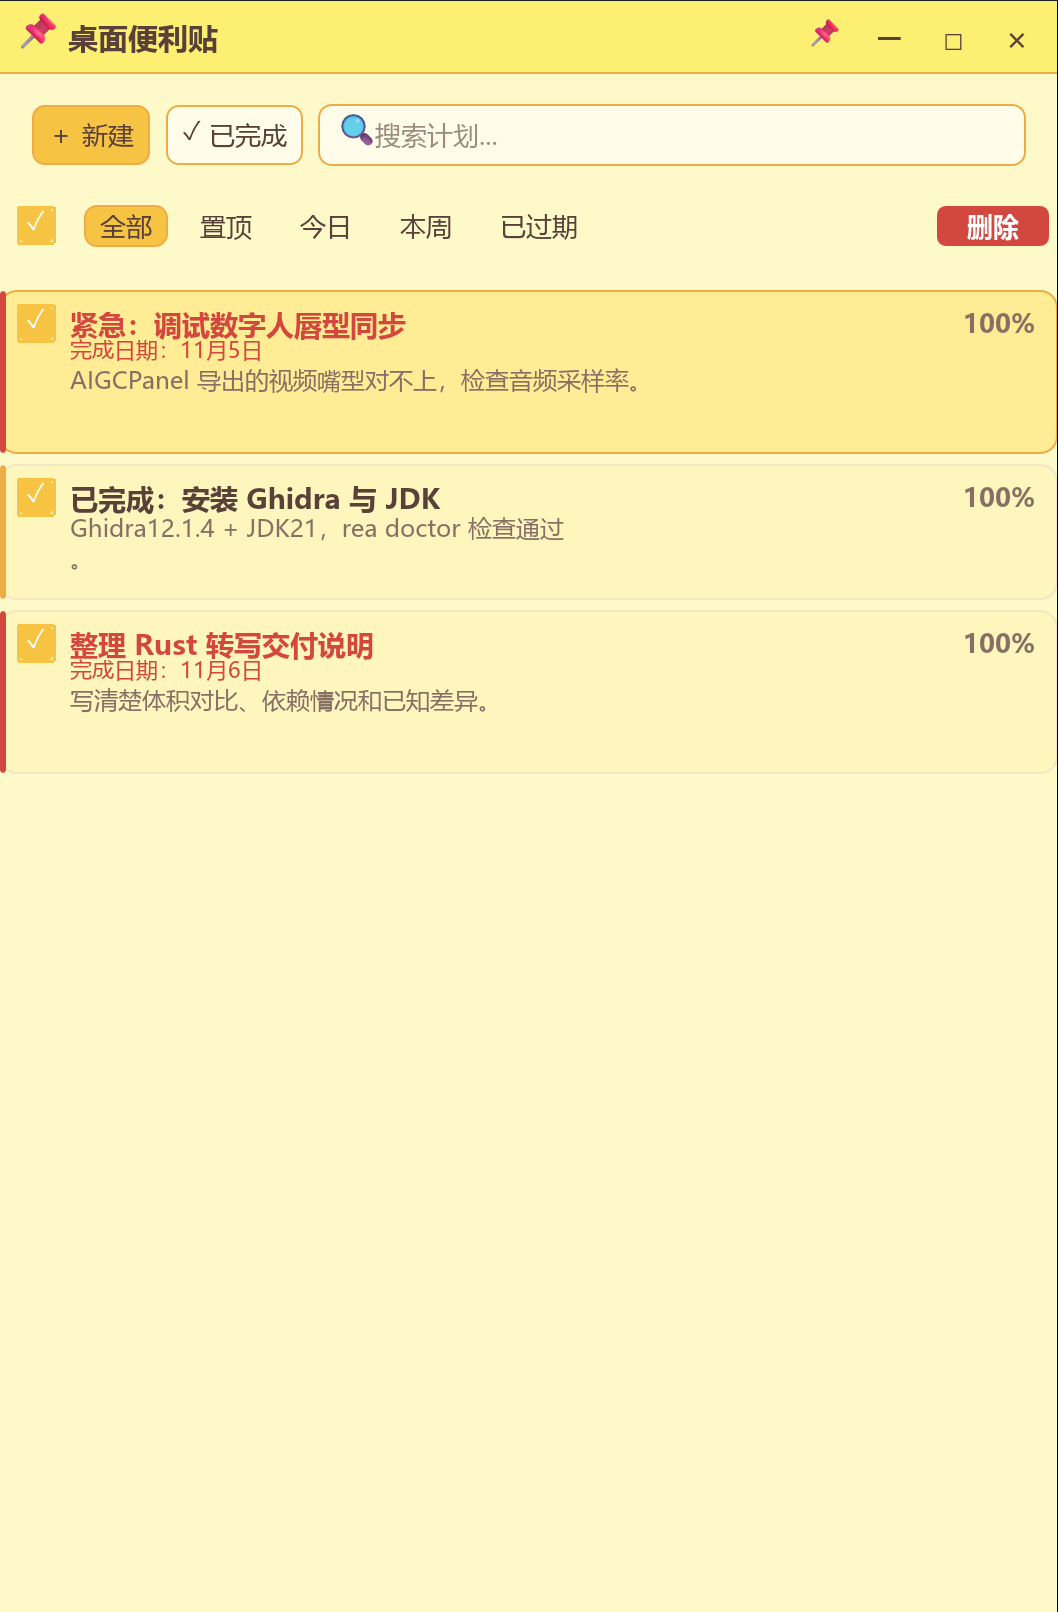
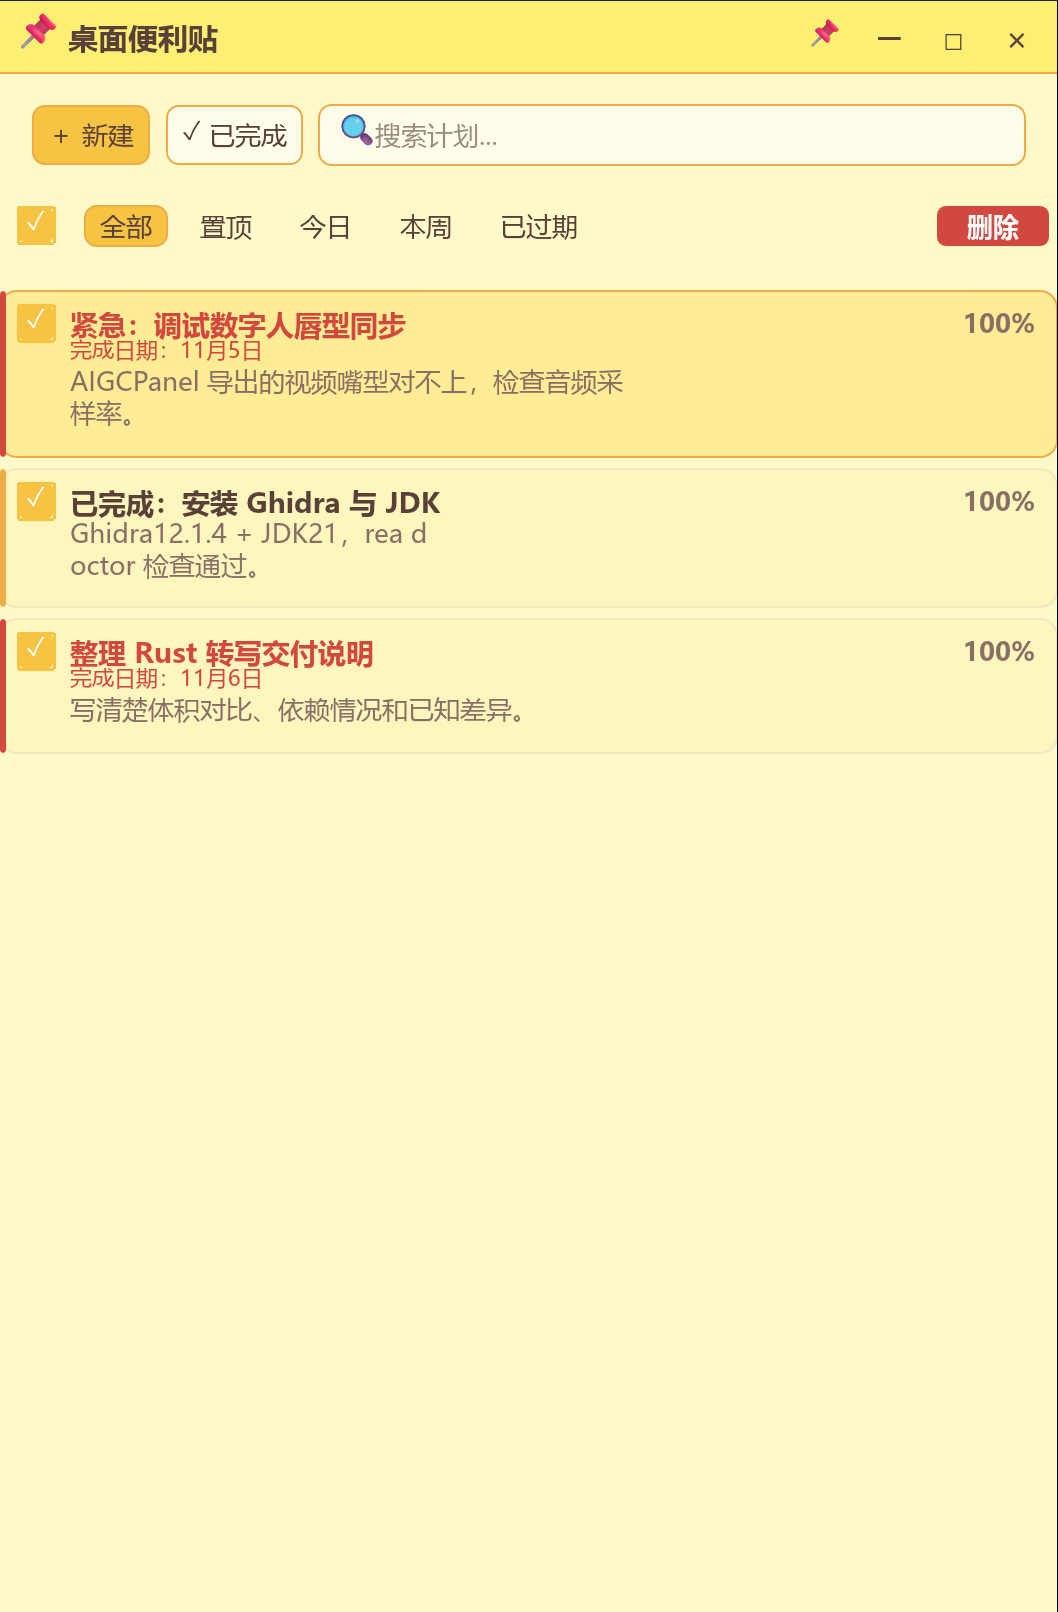
fix: 内容换行不压字、卡片贴合内容、缩放不抖、窗口小圆角
- 内容按显式换行分段再折行：带换行符的文本不再字压字；按实际折行结果定卡片高度，
  单行内容的卡片少空出一行（内容字号12→13、行距16，文字占地更大）
- 边框缩放改用屏幕坐标算位移：窗口相对坐标会正反馈，是左右拖动剧烈抖动的根因；
  尺寸上限由工作区70%放开到100%（原先开窗即顶格，上下拖不动）
- 窗口四角交给 DWM 画小圆角（DWMWCP_ROUNDSMALL；Win10 不支持则保持直角）

Changed region(s): [[0.0, 0.2171, 0.9981, 0.4653], [0.9045, 0.3722, 0.9669, 0.4342]]

diff --git a/src/main.rs b/src/main.rs
@@ -42,7 +42,9 @@ const BORDER: f32 = 6.0;
 #[derive(Clone, Copy)]
 struct ResizeDrag {
     edge: u8,
-    start: Pos2,
+    /// 按下时的**屏幕物理坐标**：不能用 egui 的窗口相对坐标，
+    /// 窗口一动基准就跟着变，算出来的位移会越来越大（左右拖动剧烈抖动）
+    start: (i32, i32),
     rect: (i32, i32, i32, i32),
 }
 const DATA_DIR: &str = "desktop-sticky-notes";
@@ -348,15 +350,31 @@ fn paint_runs(
     cursor - x
 }
 
-/// 简易按宽度折行（中文按 1 字符宽估算），最多返回 2 行
-fn wrap_by_width(text: &str, per_line: usize) -> Vec<String> {
-    let mut lines = Vec::new();
-    let chars: Vec<char> = text.chars().collect();
-    let mut i = 0;
-    while i < chars.len() && lines.len() < 2 {
-        let end = (i + per_line).min(chars.len());
-        lines.push(chars[i..end].iter().collect());
-        i = end;
+/// 内容折行：先按**显式换行**分段，再按宽度折行，最多 max_lines 行。
+/// 直接把带 \n 的整段丢给 layout_no_wrap 会排出多行 galley，
+/// 后续文字仍按单行推进光标 → 字压字（实测踩过）。
+fn wrap_content(text: &str, per_line: usize, max_lines: usize) -> Vec<String> {
+    let norm = text.replace("\r\n", "\n").replace('\r', "\n");
+    let mut lines: Vec<String> = Vec::new();
+    for para in norm.split('\n') {
+        if lines.len() >= max_lines {
+            break;
+        }
+        let chars: Vec<char> = para.chars().collect();
+        if chars.is_empty() {
+            lines.push(String::new());
+            continue;
+        }
+        let mut i = 0;
+        while i < chars.len() && lines.len() < max_lines {
+            let end = (i + per_line).min(chars.len());
+            lines.push(chars[i..end].iter().collect());
+            i = end;
+        }
+    }
+    // 末尾多出来的空段不占行数
+    while lines.len() > 1 && lines.last().is_some_and(|l| l.is_empty()) {
+        lines.pop();
     }
     if lines.is_empty() {
         lines.push(String::new());
@@ -1579,6 +1597,8 @@ impl eframe::App for Planner {
     fn logic(&mut self, ctx: &Context, frame: &mut eframe::Frame) {
         if self.hwnd == 0 {
             self.hwnd = win32::hwnd_from_frame(frame);
+            // 小圆角（Win11 DWM；Win10 不支持则保持直角）
+            win32::round_window_corners(self.hwnd);
         }
         // 首帧：如果恢复出来的位置在屏幕外（上次被最小化时写坏的坐标），
         // 夹回可见区域，否则窗口会开在看不见的地方。
@@ -1680,42 +1700,42 @@ impl Planner {
         let pressed = ctx.input(|i| i.pointer.any_pressed());
 
         if let Some(rs) = self.resize.take() {
-            match (pos, down) {
-                (Some(p), true) => {
-                    let dx = ((p.x - rs.start.x) * ppp).round() as i32;
-                    let dy = ((p.y - rs.start.y) * ppp).round() as i32;
-                    let (sx, sy, sw, sh) = rs.rect;
-                    let min_w = (320.0 * ppp).round() as i32;
-                    let min_h = (400.0 * ppp).round() as i32;
-                    let (_, _, aw, ah) = win32::work_area(self.hwnd);
-                    let max_w = (aw * 7 / 10).max(min_w);
-                    let max_h = (ah * 7 / 10).max(min_h);
-                    let (mut x, mut y, mut w, mut h) = (sx, sy, sw, sh);
-                    if rs.edge & 1 != 0 {
-                        w = (sw - dx).clamp(min_w, max_w);
-                        x = sx + (sw - w); // 左边缩放要同步挪 x，否则窗口会跳
-                    }
-                    if rs.edge & 2 != 0 {
-                        w = (sw + dx).clamp(min_w, max_w);
-                    }
-                    if rs.edge & 4 != 0 {
-                        h = (sh - dy).clamp(min_h, max_h);
-                        y = sy + (sh - h);
-                    }
-                    if rs.edge & 8 != 0 {
-                        h = (sh + dy).clamp(min_h, max_h);
-                    }
-                    win32::set_window_rect(self.hwnd, x, y, w, h);
-                    self.user_moved_at = Some(Instant::now());
-                    self.resize = Some(rs);
-                    // 拖拽中也给正确光标（指针可能已经离开边框）
-                    let icon = Self::resize_cursor(rs.edge);
-                    ctx.set_cursor_icon(icon);
+            if down {
+                // 屏幕坐标算位移（窗口移动/改尺寸都不影响它），避免相对坐标正反馈抖动
+                let (cx, cy) = win32::cursor_pos();
+                let dx = cx - rs.start.0;
+                let dy = cy - rs.start.1;
+                let (sx, sy, sw, sh) = rs.rect;
+                let min_w = (320.0 * ppp).round() as i32;
+                let min_h = (400.0 * ppp).round() as i32;
+                let (_, _, aw, ah) = win32::work_area(self.hwnd);
+                // 上限 = 整个工作区（原先 70% 时窗口一开就顶到上限，上下拖不动）
+                let max_w = aw.max(min_w);
+                let max_h = ah.max(min_h);
+                let (mut x, mut y, mut w, mut h) = (sx, sy, sw, sh);
+                if rs.edge & 1 != 0 {
+                    w = (sw - dx).clamp(min_w, max_w);
+                    x = sx + (sw - w); // 左边缩放要同步挪 x，否则窗口会跳
                 }
-                _ => {
-                    win32::release_mouse(); // 松手 → 结束
-                    self.user_moved_at = Some(Instant::now());
+                if rs.edge & 2 != 0 {
+                    w = (sw + dx).clamp(min_w, max_w);
                 }
+                if rs.edge & 4 != 0 {
+                    h = (sh - dy).clamp(min_h, max_h);
+                    y = sy + (sh - h);
+                }
+                if rs.edge & 8 != 0 {
+                    h = (sh + dy).clamp(min_h, max_h);
+                }
+                win32::set_window_rect(self.hwnd, x, y, w, h);
+                self.user_moved_at = Some(Instant::now());
+                self.resize = Some(rs);
+                // 拖拽中也给正确光标（指针可能已经离开边框）
+                let icon = Self::resize_cursor(rs.edge);
+                ctx.set_cursor_icon(icon);
+            } else {
+                win32::release_mouse(); // 松手 → 结束
+                self.user_moved_at = Some(Instant::now());
             }
             return;
         }
@@ -1723,10 +1743,10 @@ impl Planner {
         if let Some(e) = self.hit_edge(ctx) {
             ctx.set_cursor_icon(Self::resize_cursor(e));
             if pressed {
-                if let Some(p) = pos {
+                if pos.is_some() {
                     self.resize = Some(ResizeDrag {
                         edge: e,
-                        start: p,
+                        start: win32::cursor_pos(),
                         rect: win32::window_rect(self.hwnd),
                     });
                     win32::capture_mouse(self.hwnd);
@@ -2060,12 +2080,35 @@ impl Planner {
         let width = ui.available_width();
         let has_deadline = item.deadline.is_some();
         let has_content = !item.content.is_empty();
+
+        // 文字可用宽度按操作行同一套算法提前算出：只有先知道折几行，
+        // 才能把卡片高度做成"贴合内容"，否则内容只有一行时下面空一大块
+        let prog_w = ui
+            .painter()
+            .layout_no_wrap(
+                format!("{}%", item.progress),
+                FontId::new(13.0, FontFamily::Name("yahei-bold".into())),
+                C_TEXT2,
+            )
+            .size()
+            .x
+            + 8.0;
+        let available = (width - 140.0 - prog_w).max(40.0);
+        let per_line = (available / 13.0).max(4.0) as usize;
+        let content_lines: Vec<String> = if has_content {
+            let shown = truncate_chars(&item.content, per_line * 2);
+            wrap_content(&shown, per_line, 2)
+        } else {
+            Vec::new()
+        };
+
         let mut height = 7.0 + 18.0 + 3.0;
         if has_deadline {
             height += 14.0;
         }
         if has_content {
-            height += 32.0;
+            // 每行 16px +2px 底衬，行数按实际折行结果算
+            height += content_lines.len() as f32 * 16.0 + 2.0;
         }
         height += 7.0;
 
@@ -2321,20 +2364,17 @@ impl Planner {
             );
         }
 
-        // 内容（最多两行）
+        // 内容（最多两行；行已在开头按显式换行折好，直接画）
         if has_content {
-            y += 15.0;
-            let per_line = (available / 12.0).max(4.0) as usize;
-            let shown = truncate_chars(&item.content, per_line * 2);
-            let lines = wrap_by_width(&shown, per_line);
-            for (i, line) in lines.iter().take(2).enumerate() {
+            y += 16.0;
+            for (i, line) in content_lines.iter().enumerate() {
                 paint_runs(
                     p,
                     text_left,
-                    y + i as f32 * 15.0,
+                    y + i as f32 * 16.0,
                     line,
                     &self.search_query,
-                    FontId::proportional(12.0),
+                    FontId::proportional(13.0),
                     C_TEXT2,
                 );
             }

diff --git a/src/win32.rs b/src/win32.rs
@@ -62,6 +62,25 @@ pub fn work_area(hwnd: isize) -> (i32, i32, i32, i32) {
     }
 }
 
+/// 小圆角窗口：Windows11 交给 DWM 画圆角（DWMWCP_ROUNDSMALL）。
+/// Win10 不支持该属性，返回失败直接忽略，仍是直角。
+pub fn round_window_corners(hwnd: isize) {
+    if hwnd == 0 {
+        return;
+    }
+    const DWMWA_WINDOW_CORNER_PREFERENCE: u32 = 33;
+    const DWMWCP_ROUNDSMALL: u32 = 3;
+    unsafe {
+        let pref: u32 = DWMWCP_ROUNDSMALL;
+        let _ = windows_sys::Win32::Graphics::Dwm::DwmSetWindowAttribute(
+            hwnd as *mut std::ffi::c_void,
+            DWMWA_WINDOW_CORNER_PREFERENCE,
+            &pref as *const u32 as *const _,
+            std::mem::size_of::<u32>() as u32,
+        );
+    }
+}
+
 pub fn cursor_pos() -> (i32, i32) {
     unsafe {
         let mut pt: POINT = std::mem::zeroed();
